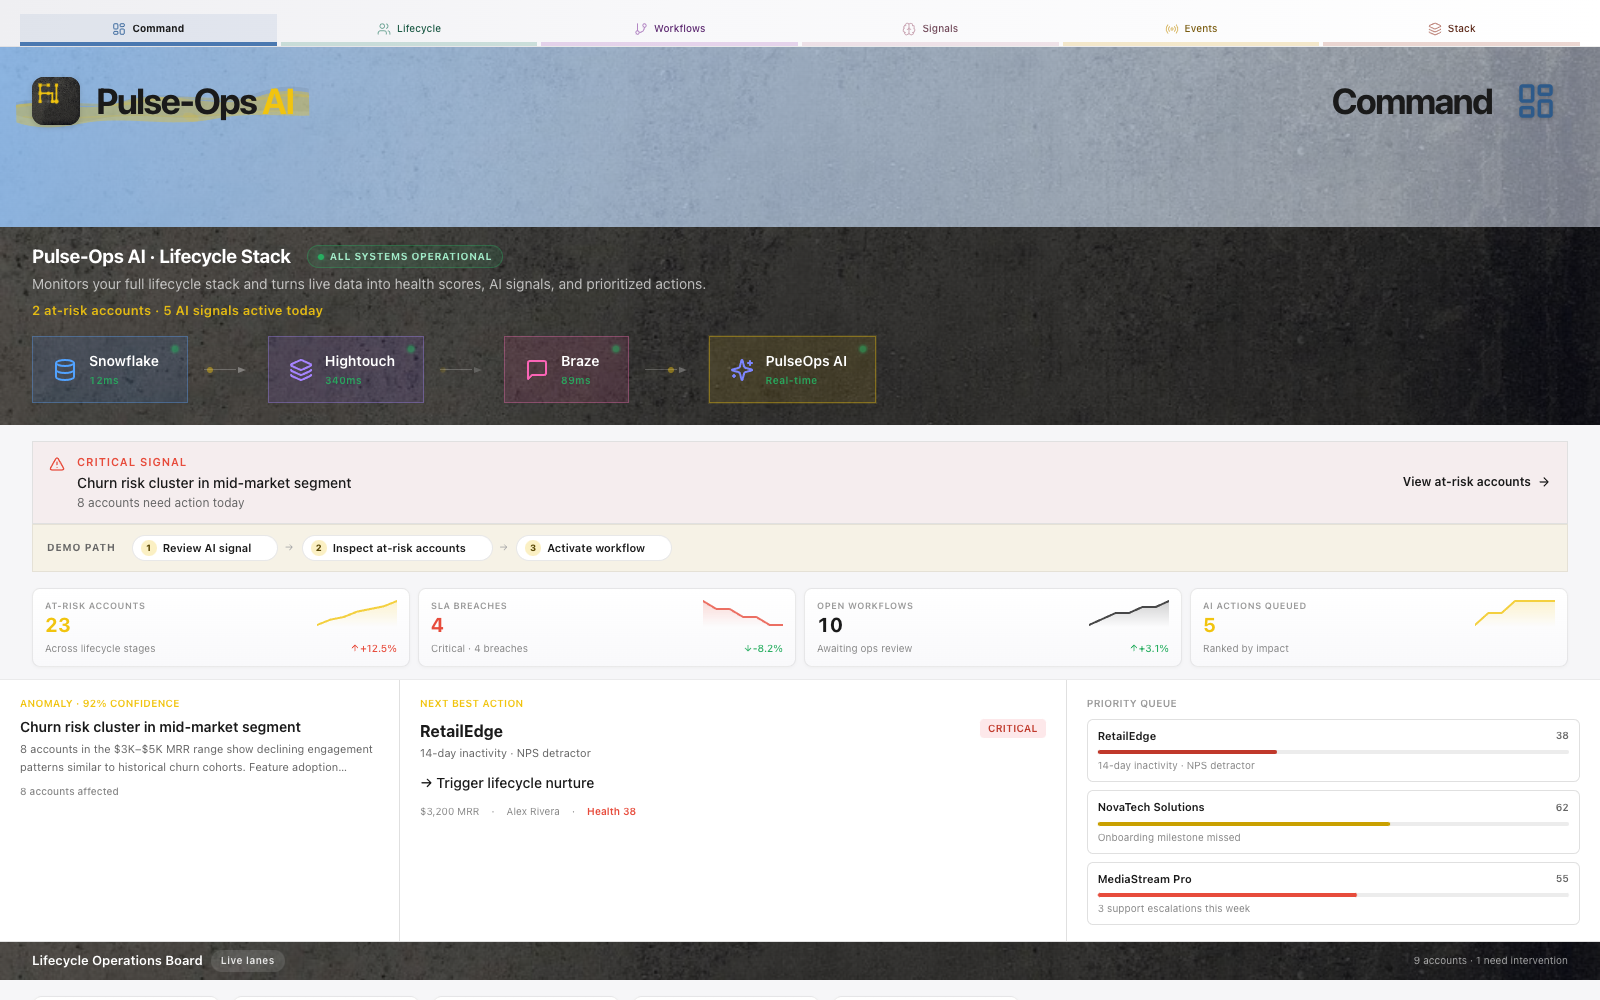
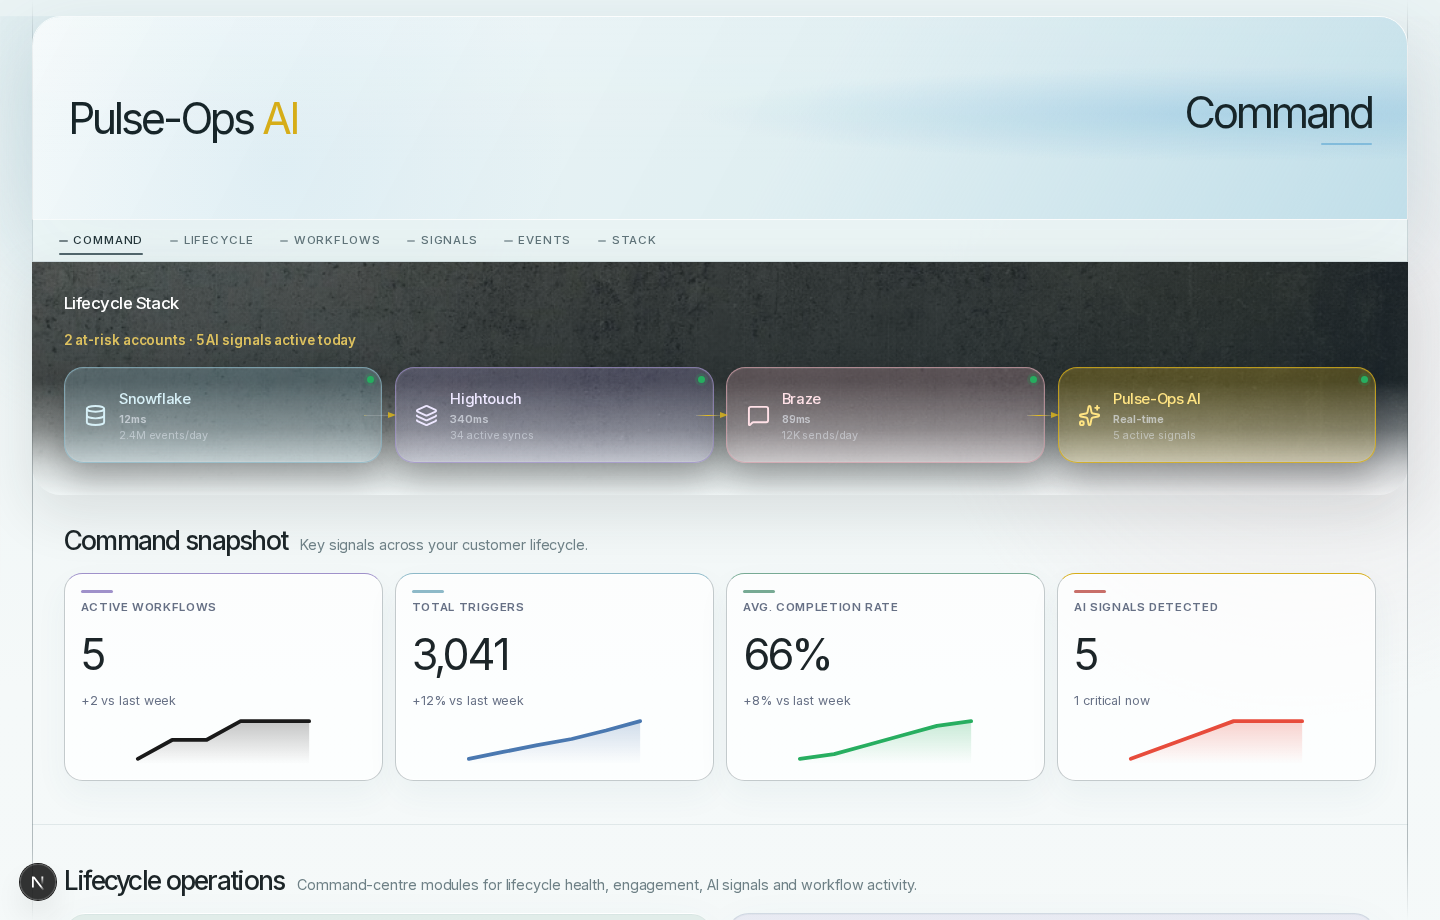
Update Pulse-Ops portfolio preview

diff --git a/src/lib/projects.ts b/src/lib/projects.ts
@@ -152,14 +152,7 @@ export const projects: Project[] = [
     overview: "",
     liveUrl: "https://kentkong.github.io/pulse-ops-ai/",
     previewImageDesktop: "/projects/pulse-ops/operations.png",
-    previewImagesDesktop: [
-      "/projects/pulse-ops/operations.png",
-      "/projects/pulse-ops/lifecycle.png",
-      "/projects/pulse-ops/workflows.png",
-      "/projects/pulse-ops/insights.png",
-      "/projects/pulse-ops/events.png",
-      "/projects/pulse-ops/architecture.png",
-    ],
+    previewImagesDesktop: ["/projects/pulse-ops/operations.png"],
     previewRotationIntervalMs: 3200,
     accent: "from-yellow-500/15 via-zinc-500/10 to-transparent",
     themeColor: "#eab308",
